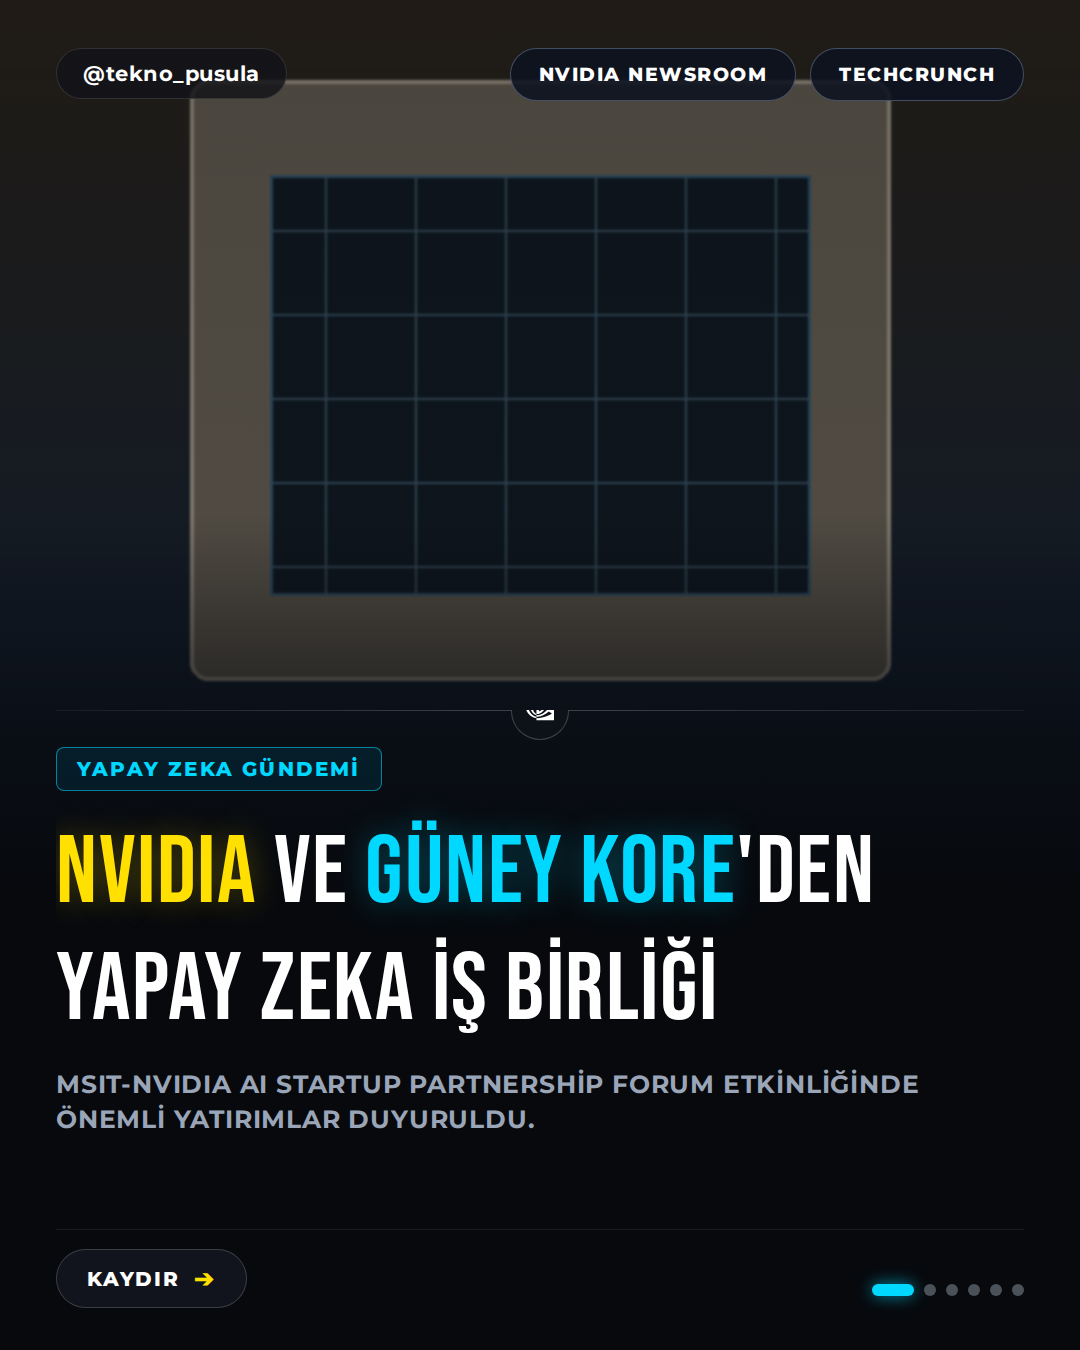
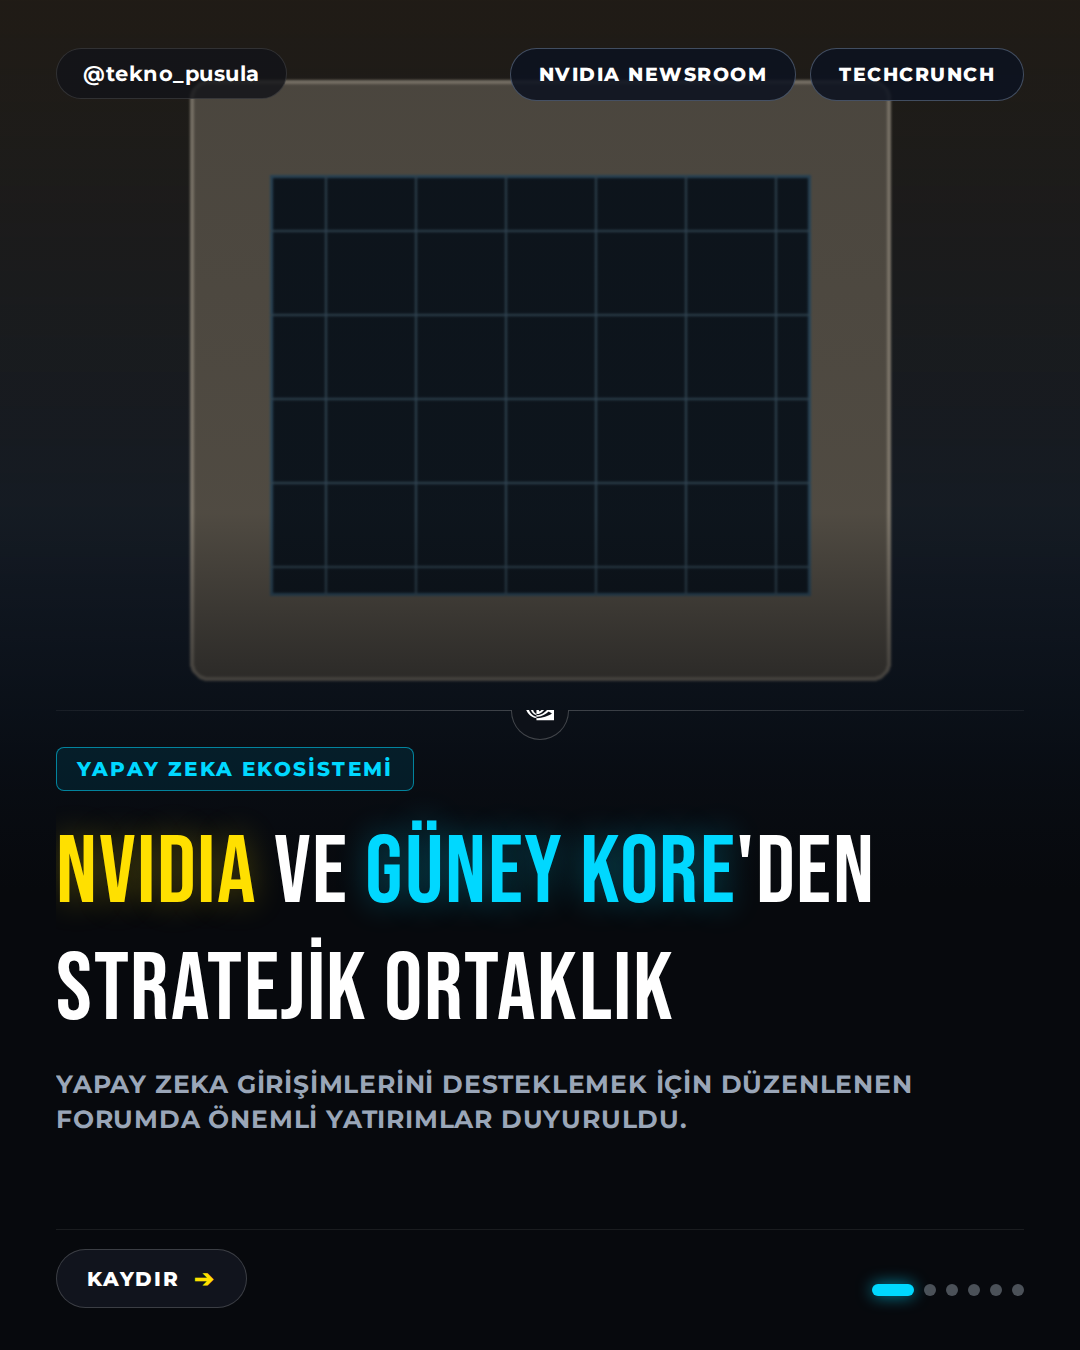
🤖 post: 2026-11-09 09:00 – NVIDIA Announces New Planned Investments in Korean Startups

Changed region(s): [[0.0306, 0.6844, 0.8556, 0.84], [0.2139, 0.56, 0.3667, 0.5911]]

diff --git a/output/2026-11-09/01-0900-nvidia-announces-new-planned-investments-in-kore/verification.md b/output/2026-11-09/01-0900-nvidia-announces-new-planned-investments-in-kore/verification.md
@@ -3,66 +3,60 @@
 **Haber:** NVIDIA Announces New Planned Investments in Korean Startups at the MSIT-NVIDIA AI Startup Partnership Forum
 **Canonical URL:** https://blogs.nvidia.com/blog/korean-startup-investments-msit/
 **Kaynaklar:** NVIDIA Newsroom, TechCrunch, NVIDIA Newsroom, The Verge
-**Kontrol zamanı:** 2026-11-09T12:28:03+03:00
+**Kontrol zamanı:** 2026-11-09T12:33:36+03:00
 **Sonuç:** ✅ YAYINLANABİLİR
 
 ---
 
 ## İddia Bazlı Sonuçlar
 
-### 1. Korea’s Ministry of Science and ICT and NVIDIA hosted the MSIT-NVIDIA AI Startup Partnership Forum at COEX.
+### 1. Güney Kore Bilim ve BİT Bakanlığı ile NVIDIA, COEX'te MSIT-NVIDIA Yapay Zeka Girişim Ortaklığı Forumu'nu düzenledi.
 - **Karar:** ✅ `supported`
 - **Kanıtlar:**
   - [https://blogs.nvidia.com/blog/korean-startup-investments-msit/](https://blogs.nvidia.com/blog/korean-startup-investments-msit/)
     > Korea’s Ministry of Science and ICT and NVIDIA hosted the MSIT-NVIDIA AI Startup Partnership Forum at COEX.
 
-### 2. Ryu Je-myung, vice minister of science and ICT, joined NVIDIA leaders to meet with over 20 Korean startups.
+### 2. Bilim ve BİT Bakan Yardımcısı Ryu Je-myung, 20'den fazla Koreli yapay zeka girişimiyle bir araya geldi.
 - **Karar:** ✅ `supported`
 - **Kanıtlar:**
   - [https://blogs.nvidia.com/blog/korean-startup-investments-msit/](https://blogs.nvidia.com/blog/korean-startup-investments-msit/)
     > Ryu Je-myung, vice minister of science and ICT, joined NVIDIA leaders to meet with over 20 Korean startups across foundation models, physical AI, AI infrastructure and AI semiconductors.
 
-### 3. NVIDIA announced an investment in Korean startup Point2, with additional investments planned in Motif Technologies, RLWRLD and Upstage.
+### 3. NVIDIA, Koreli girişim Point2'ye yatırım yaptığını ve Motif Technologies, RLWRLD ve Upstage şirketlerine de yatırım planladığını duyurdu.
 - **Karar:** ✅ `supported`
 - **Kanıtlar:**
   - [https://blogs.nvidia.com/blog/korean-startup-investments-msit/](https://blogs.nvidia.com/blog/korean-startup-investments-msit/)
     > NVIDIA also announced an investment in Korean startup Point2, with additional investments planned in Motif Technologies, RLWRLD and Upstage.
 
-### 4. Point2 Technology is an AI interconnect company that builds scalable, radio frequency-based interconnects between chips and racks in AI factories.
+### 4. Point2 Technology, yapay zeka fabrikalarında çipler ve raflar arasında veri taşıyan radyo frekansı tabanlı ara bağlantılar geliştiren bir şirkettir.
 - **Karar:** ✅ `supported`
 - **Kanıtlar:**
   - [https://blogs.nvidia.com/blog/korean-startup-investments-msit/](https://blogs.nvidia.com/blog/korean-startup-investments-msit/)
     > Point2 Technology, an AI interconnect company, builds scalable, radio frequency-based interconnects that move data between chips and racks in AI factories
-  - [https://blogs.nvidia.com/blog/korean-startup-investments-msit/](https://blogs.nvidia.com/blog/korean-startup-investments-msit/)
-    > Point2 Technology, an AI interconnect company, builds scalable, radio frequency-based interconnects that move data between chips and racks in AI factories, offering an innovative alternative to conventional copper and optical interconnect solutions for AI cluster scale-up, delivering the reach, performance and efficiency needed for next-generation AI infrastructure.
 
-### 5. Motif Technologies is a Seoul-based AI lab that develops foundation models for building AI agents, including the open-weights large language model Motif-3.
+### 5. Motif Technologies, açık ağırlıklarla yayınlanan Motif-3 adlı büyük dil modelini geliştiren Seul merkezli bir yapay zeka laboratuvarıdır.
 - **Karar:** ✅ `supported`
 - **Kanıtlar:**
   - [https://blogs.nvidia.com/blog/korean-startup-investments-msit/](https://blogs.nvidia.com/blog/korean-startup-investments-msit/)
     > Motif Technologies, a Seoul-based AI lab, develops foundation models for building AI agents that carry out complex tasks, including Motif-3, a large language model released with open weights.
 
-### 6. RLWRLD is a physical AI startup based in San Francisco, Seoul and Tokyo that develops robotics foundation models for humanoid and industrial robots.
+### 6. RLWRLD, San Francisco, Seul ve Tokyo merkezli, insansı ve endüstriyel robotlar için temel modeller geliştiren bir fiziksel yapay zeka girişimidir.
 - **Karar:** ✅ `supported`
 - **Kanıtlar:**
   - [https://blogs.nvidia.com/blog/korean-startup-investments-msit/](https://blogs.nvidia.com/blog/korean-startup-investments-msit/)
     > RLWRLD, a physical AI startup based in San Francisco, Seoul and Tokyo, develops robotics foundation models that enable humanoid and industrial robots to perform complex real-world tasks
-  - [https://blogs.nvidia.com/blog/korean-startup-investments-msit/](https://blogs.nvidia.com/blog/korean-startup-investments-msit/)
-    > RLWRLD, a physical AI startup based in San Francisco, Seoul and Tokyo, develops robotics foundation models that enable humanoid and industrial robots to perform complex real-world tasks that require five-finger dexterity, such as precisely inserting components, threading nuts onto bolts and kitting parts from moving conveyors.
 
-### 7. Upstage is a Korean enterprise AI company that develops Solar language models and document AI tools for businesses.
+### 7. Upstage, Solar dil modelleri ve belge yapay zeka araçları geliştiren Koreli bir kurumsal yapay zeka şirketidir.
 - **Karar:** ✅ `supported`
 - **Kanıtlar:**
   - [https://blogs.nvidia.com/blog/korean-startup-investments-msit/](https://blogs.nvidia.com/blog/korean-startup-investments-msit/)
-    > Upstage, a Korean enterprise AI company, develops Solar language models and document AI tools that help businesses extract information from complex documents, streamline workflows and build AI applications for everyday operations.
+    > Upstage, a Korean enterprise AI company, develops Solar language models and document AI tools that help businesses extract information from complex documents
 
-### 8. More than 1,000 Korea-based members are part of NVIDIA Inception, a program that helps startups grow.
+### 8. NVIDIA Inception programının Kore merkezli 1.000'den fazla üyesi bulunmaktadır.
 - **Karar:** ✅ `supported`
 - **Kanıtlar:**
   - [https://blogs.nvidia.com/blog/korean-startup-investments-msit/](https://blogs.nvidia.com/blog/korean-startup-investments-msit/)
-    > more than 1,000 Korea-based members of NVIDIA Inception, a program that helps startups grow with access to preferred pricing, technical expertise and opportunities for investor introductions.
-  - [https://blogs.nvidia.com/blog/korean-startup-investments-msit/](https://blogs.nvidia.com/blog/korean-startup-investments-msit/)
-    > The planned investments build on NVIDIA’s work with Korea’s startup and venture community, including more than 1,000 Korea-based members of NVIDIA Inception, a program that helps startups grow with access to preferred pricing, technical expertise and opportunities for investor introductions.
+    > The planned investments build on NVIDIA’s work with Korea’s startup and venture community, including more than 1,000 Korea-based members of NVIDIA Inception
 
 ---
 
@@ -70,14 +64,14 @@
 
 | İddia | 1. Tur | 2. Tur | Nihai |
 |-------|--------|--------|-------|
-| Korea’s Ministry of Science and ICT and NVIDIA hosted the MS | supported | supported | supported |
-| Ryu Je-myung, vice minister of science and ICT, joined NVIDI | supported | supported | supported |
-| NVIDIA announced an investment in Korean startup Point2, wit | supported | supported | supported |
-| Point2 Technology is an AI interconnect company that builds  | supported | supported | supported |
-| Motif Technologies is a Seoul-based AI lab that develops fou | supported | supported | supported |
-| RLWRLD is a physical AI startup based in San Francisco, Seou | supported | supported | supported |
-| Upstage is a Korean enterprise AI company that develops Sola | supported | supported | supported |
-| More than 1,000 Korea-based members are part of NVIDIA Incep | supported | supported | supported |
+| Güney Kore Bilim ve BİT Bakanlığı ile NVIDIA, COEX'te MSIT-N | supported | supported | supported |
+| Bilim ve BİT Bakan Yardımcısı Ryu Je-myung, 20'den fazla Kor | supported | supported | supported |
+| NVIDIA, Koreli girişim Point2'ye yatırım yaptığını ve Motif  | supported | supported | supported |
+| Point2 Technology, yapay zeka fabrikalarında çipler ve rafla | supported | supported | supported |
+| Motif Technologies, açık ağırlıklarla yayınlanan Motif-3 adl | supported | supported | supported |
+| RLWRLD, San Francisco, Seul ve Tokyo merkezli, insansı ve en | supported | supported | supported |
+| Upstage, Solar dil modelleri ve belge yapay zeka araçları ge | supported | supported | supported |
+| NVIDIA Inception programının Kore merkezli 1.000'den fazla ü | supported | supported | supported |
 
 ## Kaynak Metinleri
 

diff --git a/output/2026-11-09/01-0900-nvidia-announces-new-planned-investments-in-kore/captions.md b/output/2026-11-09/01-0900-nvidia-announces-new-planned-investments-in-kore/captions.md
@@ -2,44 +2,46 @@
 
 ## INSTAGRAM
 
-NVIDIA ve Güney Kore yapay zeka alanında dev bir iş birliğine imza attı! MSIT-NVIDIA AI Startup Partnership Forum'da geleceğin teknolojilerine yön verecek önemli yatırımlar duyuruldu. NVIDIA Inception programına katılan Kore merkezli girişimlerin üye sayısı 1,000'i aştı. Point2 Technology, Motif Technologies, RLWRLD ve Upstage gibi yenilikçi şirketler bu büyük ekosistemin merkezinde yer alıyor. Güney Kore'nin yapay zeka ekosistemindeki bu büyük yatırımlar hakkında ne düşünüyorsunuz? Kaynak: NVIDIA Newsroom, TechCrunch
+NVIDIA ve Güney Kore'den dev iş birliği! 🚀 NVIDIA, Güney Kore Bilim ve BİT Bakanlığı ile güçlerini birleştirdi. COEX'te düzenlenen forumda, yapay zeka ekosistemini büyütecek stratejik yatırımlar duyuruldu. 1.000'den fazla Koreli girişim NVIDIA Inception programında yer alıyor. Point2, Motif Technologies, RLWRLD ve Upstage gibi yerel oyuncular artık NVIDIA'nın radarında. Donanım ve yazılım entegrasyonu ile yapay zeka fabrikalarında verimlilik artışı hedefleniyor. Sizce NVIDIA'nın bu yerel girişimlere odaklanması, küresel yapay zeka rekabetini nasıl etkiler? Kaynak: NVIDIA Newsroom, TechCrunch.
 
-#Nvidia #GüneyKore #YapayZeka #AI #Teknoloji #Girişim #Inception #Tech #ArtificialIntelligence #Startup
+#NVIDIA #YapayZeka #AI #Teknoloji #GüneyKore #Girişimcilik #TechNews #Innovation #Yatırım #DeepTech #ArtificialIntelligence #Startup
 
 ## TIKTOK
 
-NVIDIA ve Güney Kore'den yapay zeka dünyasını sarsacak ortaklık! Binlerce girişimin desteklendiği bu dev yatırımlar hakkında ne düşünüyorsunuz? Kaynak: NVIDIA Newsroom, TechCrunch
+NVIDIA'nın yeni rotası belli oldu: Güney Kore! 🇰🇷 NVIDIA, Koreli yapay zeka girişimlerine yatırım yapmaya başladı. Point2, Motif Technologies ve daha fazlası... Yapay zeka dünyasında kartlar yeniden dağıtılıyor. Sizce bu hamle rekabeti nasıl değiştirir? Kaynak: NVIDIA Newsroom
 
-#nvidia #güneykore #yapayzeka #teknoloji
+#NVIDIA #YapayZeka #AI #Teknoloji #Girişim #Haberler
 
 ## X
 
-NVIDIA ve Güney Kore Bilgi ve İletişim Teknolojileri Bakanlığı, yapay zeka girişimleri için stratejik bir iş birliği başlattı. 1.000'den fazla üyesi bulunan Inception programı ile dev yatırımlar yolda! Kaynak: NVIDIA Newsroom, TechCrunch
+NVIDIA ve Güney Kore'den stratejik ortaklık! 🇰🇷 NVIDIA, aralarında Point2 ve Upstage'in de bulunduğu Koreli yapay zeka girişimlerine yatırım yapacağını duyurdu. Yapay zeka ekosistemi hızla genişliyor. Sizce bu hamle rekabeti nasıl etkiler? Kaynak: NVIDIA Newsroom
 
 #NVIDIA #YapayZeka
 
 ## THREADS
 
-NVIDIA ve Güney Kore'den Yapay Zeka İş Birliği
+NVIDIA ve Güney Kore'den Stratejik Ortaklık 🤝
 
-NVIDIA, Güney Kore'deki girişim ekosistemini güçlendirmek için dev yatırımlar duyurdu. Inception programına katılan Koreli üye sayısı 1.000'i aştı.
+NVIDIA, Güney Kore Bilim ve BİT Bakanlığı ile bir araya gelerek yerel yapay zeka girişimlerini destekleme kararı aldı. Point2, Motif Technologies, RLWRLD ve Upstage gibi şirketler artık NVIDIA'nın yatırım odağında.
 
-Point2, Motif ve Upstage gibi yenilikçi şirketler bu dönüşümün öncüsü oluyor.
+Donanım ve yazılım entegrasyonu ile yapay zeka fabrikalarında verimlilik artışı hedefleniyor. 💭
 
-Güney Kore'nin bu hamlesi hakkında ne düşünüyorsunuz? 💭
-
-Kaynak: NVIDIA Newsroom, TechCrunch
+Sizce bu yerel odaklı strateji, küresel yapay zeka rekabetini nasıl şekillendirir? Kaynak: NVIDIA Newsroom
 
 #YapayZeka
 
 ## LINKEDIN
 
-NVIDIA ve Güney Kore'nin yapay zeka alanındaki stratejik ortaklığı, küresel teknoloji ekosisteminde yeni bir dönemin kapılarını aralıyor. MSIT-NVIDIA AI Startup Partnership Forum kapsamında duyurulan yatırımlar, donanımdan büyük dil modellerine kadar geniş bir yelpazeyi kapsıyor. 1.000'i aşkın üyesi bulunan NVIDIA Inception programı, bölgedeki girişimlerin büyümesini hızlandırırken; Point2 Technology, Motif Technologies ve Upstage gibi şirketler bu ekosistemin lokomotifi oluyor. Sektörel açıdan bu iş birliğinin global pazarın dinamiklerini nasıl etkileyeceğini değerlendiriyorsunuz? Kaynak: NVIDIA Newsroom, TechCrunch
+NVIDIA, Güney Kore'deki yapay zeka ekosistemini güçlendirmek adına önemli bir adım attı. MSIT-NVIDIA Forumu kapsamında, 20'den fazla Koreli girişimle doğrudan temas kuruldu ve Point2, Motif Technologies, RLWRLD ve Upstage gibi şirketlere yatırım planları açıklandı.
 
-#NVIDIA #YapayZeka #Teknoloji #Girişimcilik #İşBirliği
+Bu iş birliği, sadece sermaye desteği değil, aynı zamanda donanım ve yazılım entegrasyonu ile yapay zeka fabrikalarında verimliliği artırmayı hedefliyor. Yerel modellerin küresel ölçekte rekabet gücü kazanması, sektördeki çeşitliliği artıracaktır.
+
+NVIDIA'nın bu stratejik hamlesini sektörün geleceği açısından nasıl değerlendiriyorsunuz? Kaynak: NVIDIA Newsroom, TechCrunch.
+
+#NVIDIA #YapayZeka #AI #Teknoloji #Yatırım
 
 ## FACEBOOK
 
-NVIDIA ve Güney Kore'den yapay zeka alanında dev iş birliği! COEX'te gerçekleştirilen forumda geleceğin teknolojilerine yapılacak önemli yatırımlar duyuruldu. NVIDIA Inception programına katılan Kore merkezli girişim üye sayısı 1.000'i geçerken; Point2, Motif, RLWRLD ve Upstage gibi şirketler dikkat çekiyor. Güney Kore'nin yapay zeka ekosistemindeki bu büyük yatırımlar hakkında ne düşünüyorsunuz? Kaynak: NVIDIA Newsroom, TechCrunch
+NVIDIA ve Güney Kore'den yapay zeka dünyasını heyecanlandıran iş birliği! 🚀 NVIDIA, Koreli yapay zeka girişimlerini desteklemek için stratejik yatırımlarını duyurdu. Point2, Motif Technologies, RLWRLD ve Upstage gibi şirketler, NVIDIA'nın desteğiyle donanım ve yazılım çözümlerini geliştirmeye devam edecek. 1.000'den fazla Koreli girişim NVIDIA Inception programında yer alıyor. Sizce bu hamle küresel rekabeti nasıl etkiler? Kaynak: NVIDIA Newsroom, TechCrunch.
 
-#NVIDIA #GüneyKore #YapayZeka #Teknoloji
+#NVIDIA #YapayZeka #Teknoloji #Girişim #AI
